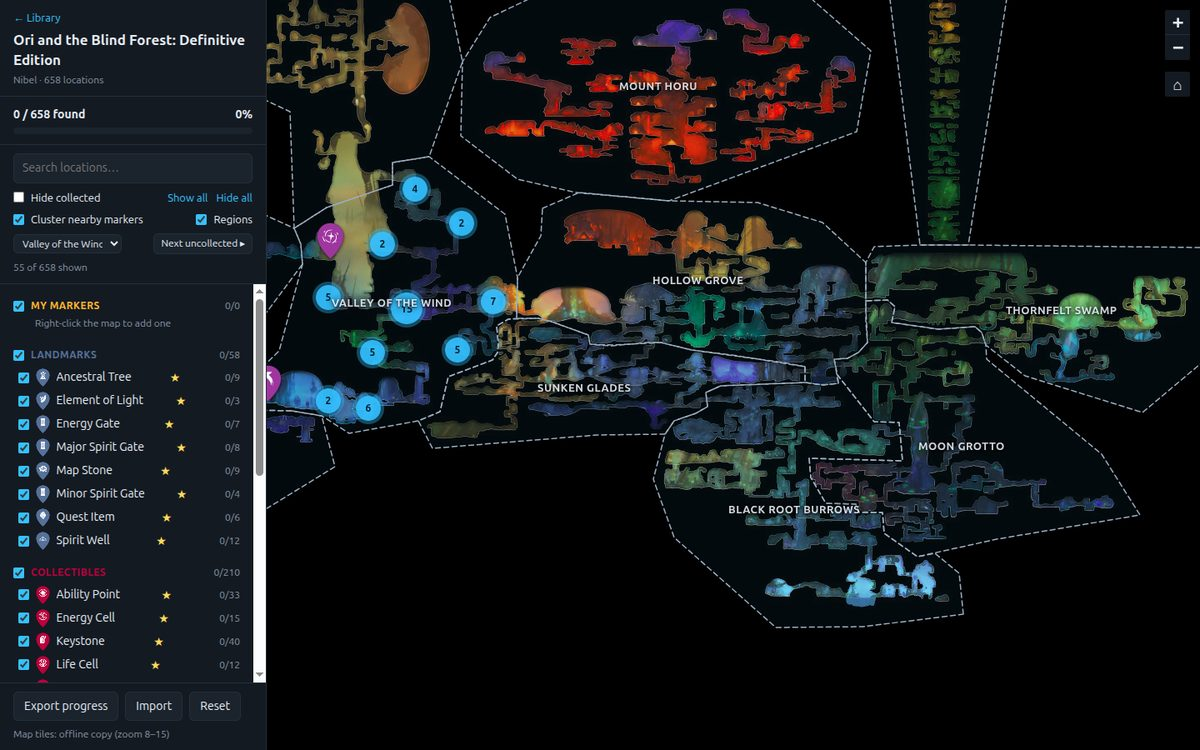
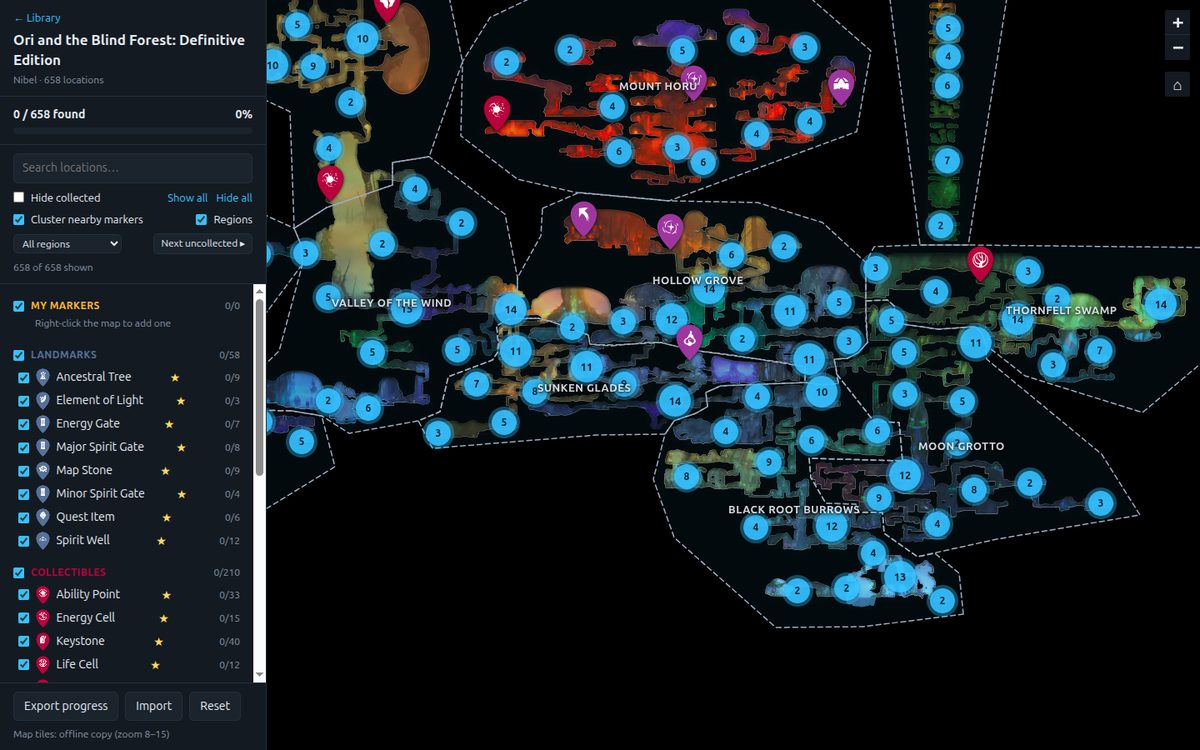
2.4.1: jumping to a search result outside the region filter
Jumping to a marker (from search results, note links or "next
uncollected") now clears a region filter that would hide it, the same
way it already un-hides its category and "hide collected". Adds the
large-map measurements to the README and refreshes the screenshots.

diff --git a/renderer/mapview.js b/renderer/mapview.js
@@ -487,6 +487,7 @@ window.MapView = (() => {
       let changed = false;
       if (state.hidden.has(entry.data.categoryId)) { state.hidden.delete(entry.data.categoryId); persist.hidden(); changed = true; }
       if (state.hideCollected && isCollected(id)) { state.hideCollected = false; el.hideCollected.checked = false; persist.hideCollected(); changed = true; }
+      if (state.region != null && entry.data.categoryId !== CUSTOM && entry.data.regionId !== state.region) { state.region = null; el.regionFilter.value = ''; persist.region(); changed = true; }
       if (changed) { syncCategoryUI(); applyFilters(); }
       map.closePopup();
       let opened = false;

diff --git a/README.md b/README.md
@@ -111,6 +111,13 @@ Requires Node 22+ (Electron 45 needs it). `npm install` also fetches the Electro
 since Electron's package no longer does it itself); if `npm start` ever complains that
 `node_modules/electron/dist/electron` is missing, run `node node_modules/electron/install.js`.
 
+## Large maps
+
+Measured on a map with 5,709 locations: opening it takes about a quarter of a second, category filters apply
+in under 100 ms, a search over every location takes about a quarter of a second, and switching to another
+map of the same game is instant. Turning clustering off puts every pin on the map at once and takes about a
+second on a map that size.
+
 ## When something goes wrong
 
 Imports write what happened to `app.log` (*Help → Show log folder*), including why a page could not be
